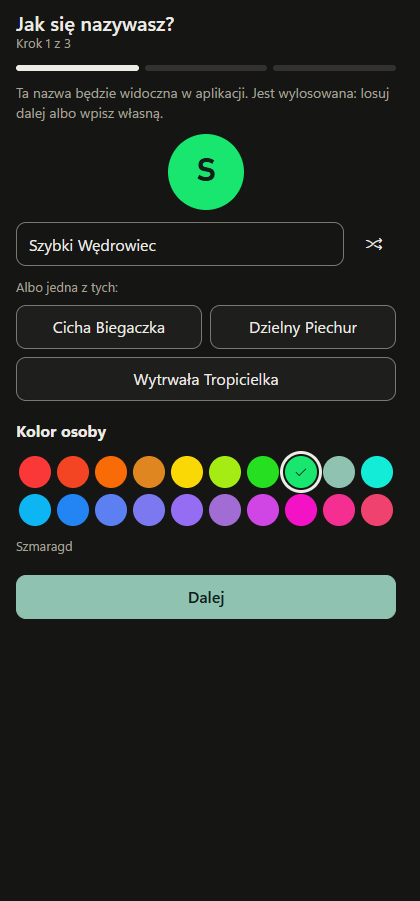
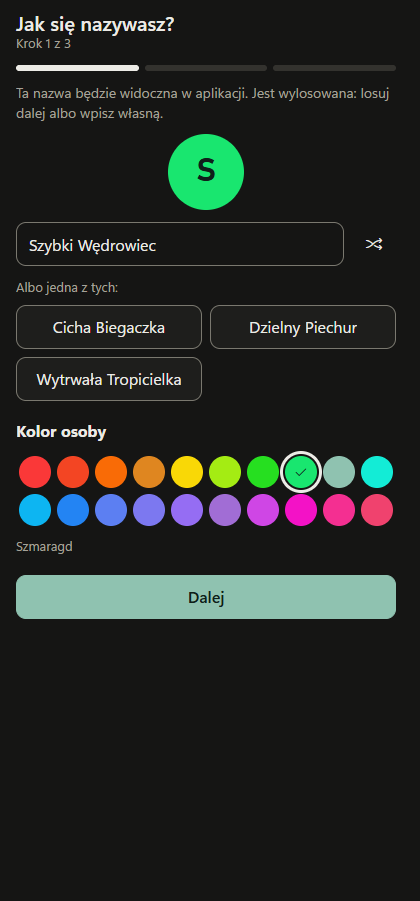
0.6.0 interfejs: Obsługiwane bieżnie, Wybierz bieżnię, Kreator - poprawki po przeglądzie
- Kreator: nowy krok przewija treść na górę (pasek postępu i tytuł widoczne w niskim oknie).
- Kreator: tryb sterowania jak w 0.5 - z ustawień przy dodawaniu osoby i po aktualizacji z 0.2,
  inaczej Klawisze.
- Kreator: propozycje nazw w równych kolumnach (3 w rzędzie albo 2 + 1 bez rozciągania ostatniej).
- Opcja kreatora: strzałki przenoszą fokus między opcjami grupy (role="radio"); wybór Spacją/Enterem,
  żeby strzałka nie otwierała okna wyboru folderu gry.
- Zrzuty kreatora przy 420 px odświeżone.

Changed region(s): [[0.0929, 0.404, 0.65, 0.4351]]

diff --git a/walklevel/src/ekrany/Kreator.svelte b/walklevel/src/ekrany/Kreator.svelte
@@ -39,17 +39,27 @@
   let kierunek = $state<Direction>('keyboard');
   let pracuje = $state(false);
 
+  let postep: HTMLDivElement | undefined;
+
+  /** Nowy krok zaczyna się od góry (pasek postępu i tytuł widoczne także w niskim oknie). */
+  function naKrok(n: 1 | 2 | 3) {
+    krok = n;
+    postep?.closest('.przewijanie')?.scrollTo({ top: 0 });
+  }
+
   /** Nowy kreator przy wejściu na ekran (ekran jest montowany raz i tylko chowany). */
   async function zacznij(m: WizardMode) {
-    krok = 1;
+    naKrok(1);
     gra = null;
     nazwaGry = '';
     uzyjGry = false;
     paletaGry = false;
     kopiuj = false;
     pracuje = false;
+    // jak w 0.5: przy dodawaniu osoby i po aktualizacji z 0.2 obecny tryb, inaczej Klawisze
     const d = stan.settings.direction;
-    kierunek = m === 'add' && (d === 'keyboard' || d === 'gamepad' || d === 'treadmill') ? d : 'keyboard';
+    const zUstawien = m === 'add' || stan.app.legacy02;
+    kierunek = zUstawien && (d === 'keyboard' || d === 'gamepad' || d === 'treadmill') ? d : 'keyboard';
     const seed = await wykonaj(api.wizardSeed(m));
     if (!seed) return;
     nazwa = nazwaStartowa = seed.name;
@@ -114,7 +124,7 @@
 
   function wstecz() {
     if (krok > 1) {
-      krok = krok === 3 ? 2 : 1;
+      naKrok(krok === 3 ? 2 : 1);
       return;
     }
     porzucGre();
@@ -124,9 +134,9 @@
   async function dalej() {
     if (krok === 1) {
       nazwa = nazwa.trim() || nazwaStartowa || t('kreator.imie.domyslna');
-      krok = 2;
+      naKrok(2);
     } else if (krok === 2) {
-      krok = 3;
+      naKrok(3);
     } else {
       await zakoncz();
     }
@@ -154,7 +164,7 @@
 </script>
 
 <Strona {tytul} podpis={t('kreator.krok', { liczba: krok })} glowny={pierwszy}>
-  <div class="postep" aria-hidden="true">
+  <div class="postep" aria-hidden="true" bind:this={postep}>
     {#each [1, 2, 3] as n (n)}<span class="odcinek" class:zrobiony={n <= krok}></span>{/each}
   </div>
 
@@ -309,8 +319,14 @@
     grid-template-columns: minmax(0, 1fr) auto;
     gap: var(--sp-2);
   }
-  .sugestie { display: flex; flex-wrap: wrap; gap: var(--sp-2); margin-top: calc(var(--sp-1) * -1); }
-  .sugestia { display: flex; flex: 1 1 140px; min-width: 0; }
+  /* równe kolumny: 3 w rzędzie albo 2 + 1 bez rozciągania ostatniej na całą szerokość */
+  .sugestie {
+    display: grid;
+    grid-template-columns: repeat(auto-fit, minmax(170px, 1fr));
+    gap: var(--sp-2);
+    margin-top: calc(var(--sp-1) * -1);
+  }
+  .sugestia { display: flex; min-width: 0; }
   .sugestia :global(.przycisk) { font-weight: var(--fw-regular); }
 
   .opcje { display: flex; flex-direction: column; gap: var(--sp-2); }

diff --git a/walklevel/src/ekrany/Kreator/Opcja.svelte b/walklevel/src/ekrany/Kreator/Opcja.svelte
@@ -15,10 +15,24 @@
     children?: Snippet;
   }
   let { ikona, tytul, opis, wybrany, onclick, children }: Props = $props();
+
+  /** Strzałki przenoszą fokus na sąsiednią opcję tej samej grupy (wybór dopiero Spacją/Enterem,
+   *  bo wybranie „Wskaż folder gry” otwiera okno systemowe). */
+  function strzalki(e: KeyboardEvent) {
+    const krok = { ArrowDown: 1, ArrowRight: 1, ArrowUp: -1, ArrowLeft: -1 }[e.key];
+    const ten = e.currentTarget as HTMLButtonElement;
+    const grupa = ten.closest('[role="radiogroup"]');
+    if (!krok || !grupa) return;
+    const opcje = [...grupa.querySelectorAll<HTMLButtonElement>(':scope > .opcja > .wybor')];
+    const nowy = opcje[opcje.indexOf(ten) + krok];
+    if (!nowy) return;
+    e.preventDefault();
+    nowy.focus();
+  }
 </script>
 
 <div class="opcja" class:wybrany>
-  <button type="button" class="wybor" role="radio" aria-checked={wybrany} {onclick}>
+  <button type="button" class="wybor" role="radio" aria-checked={wybrany} {onclick} onkeydown={strzalki}>
     <span class="ikona"><Ikona nazwa={ikona} rozmiar={20} /></span>
     <span class="tekst">
       <span class="tytul">{tytul}</span>
